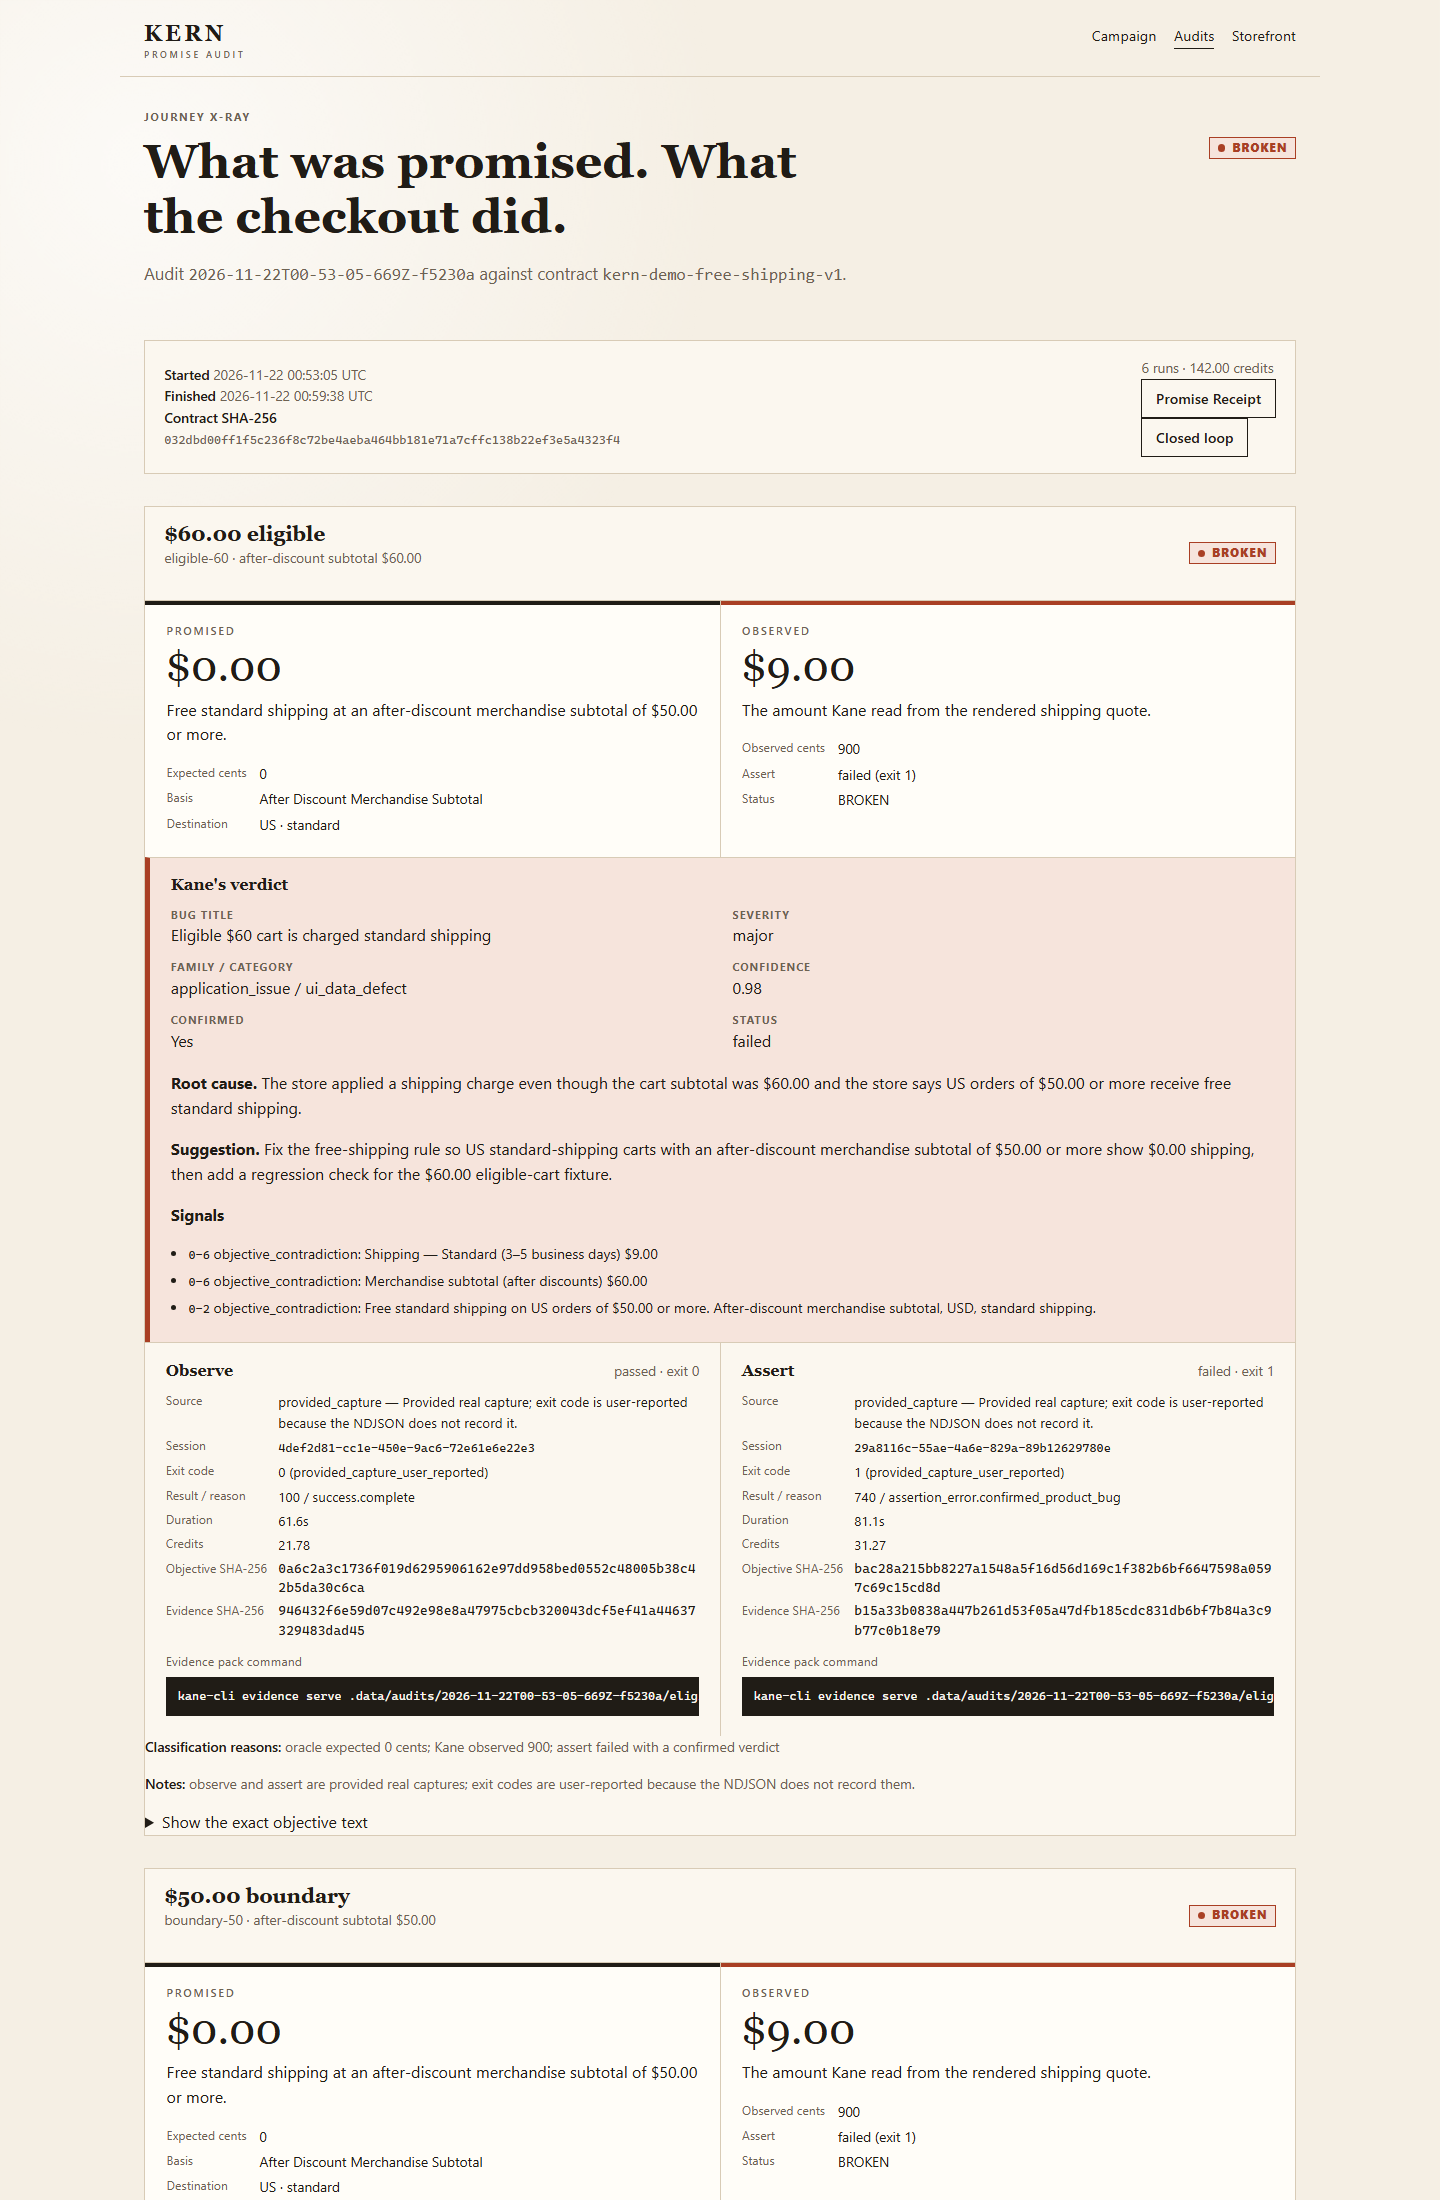
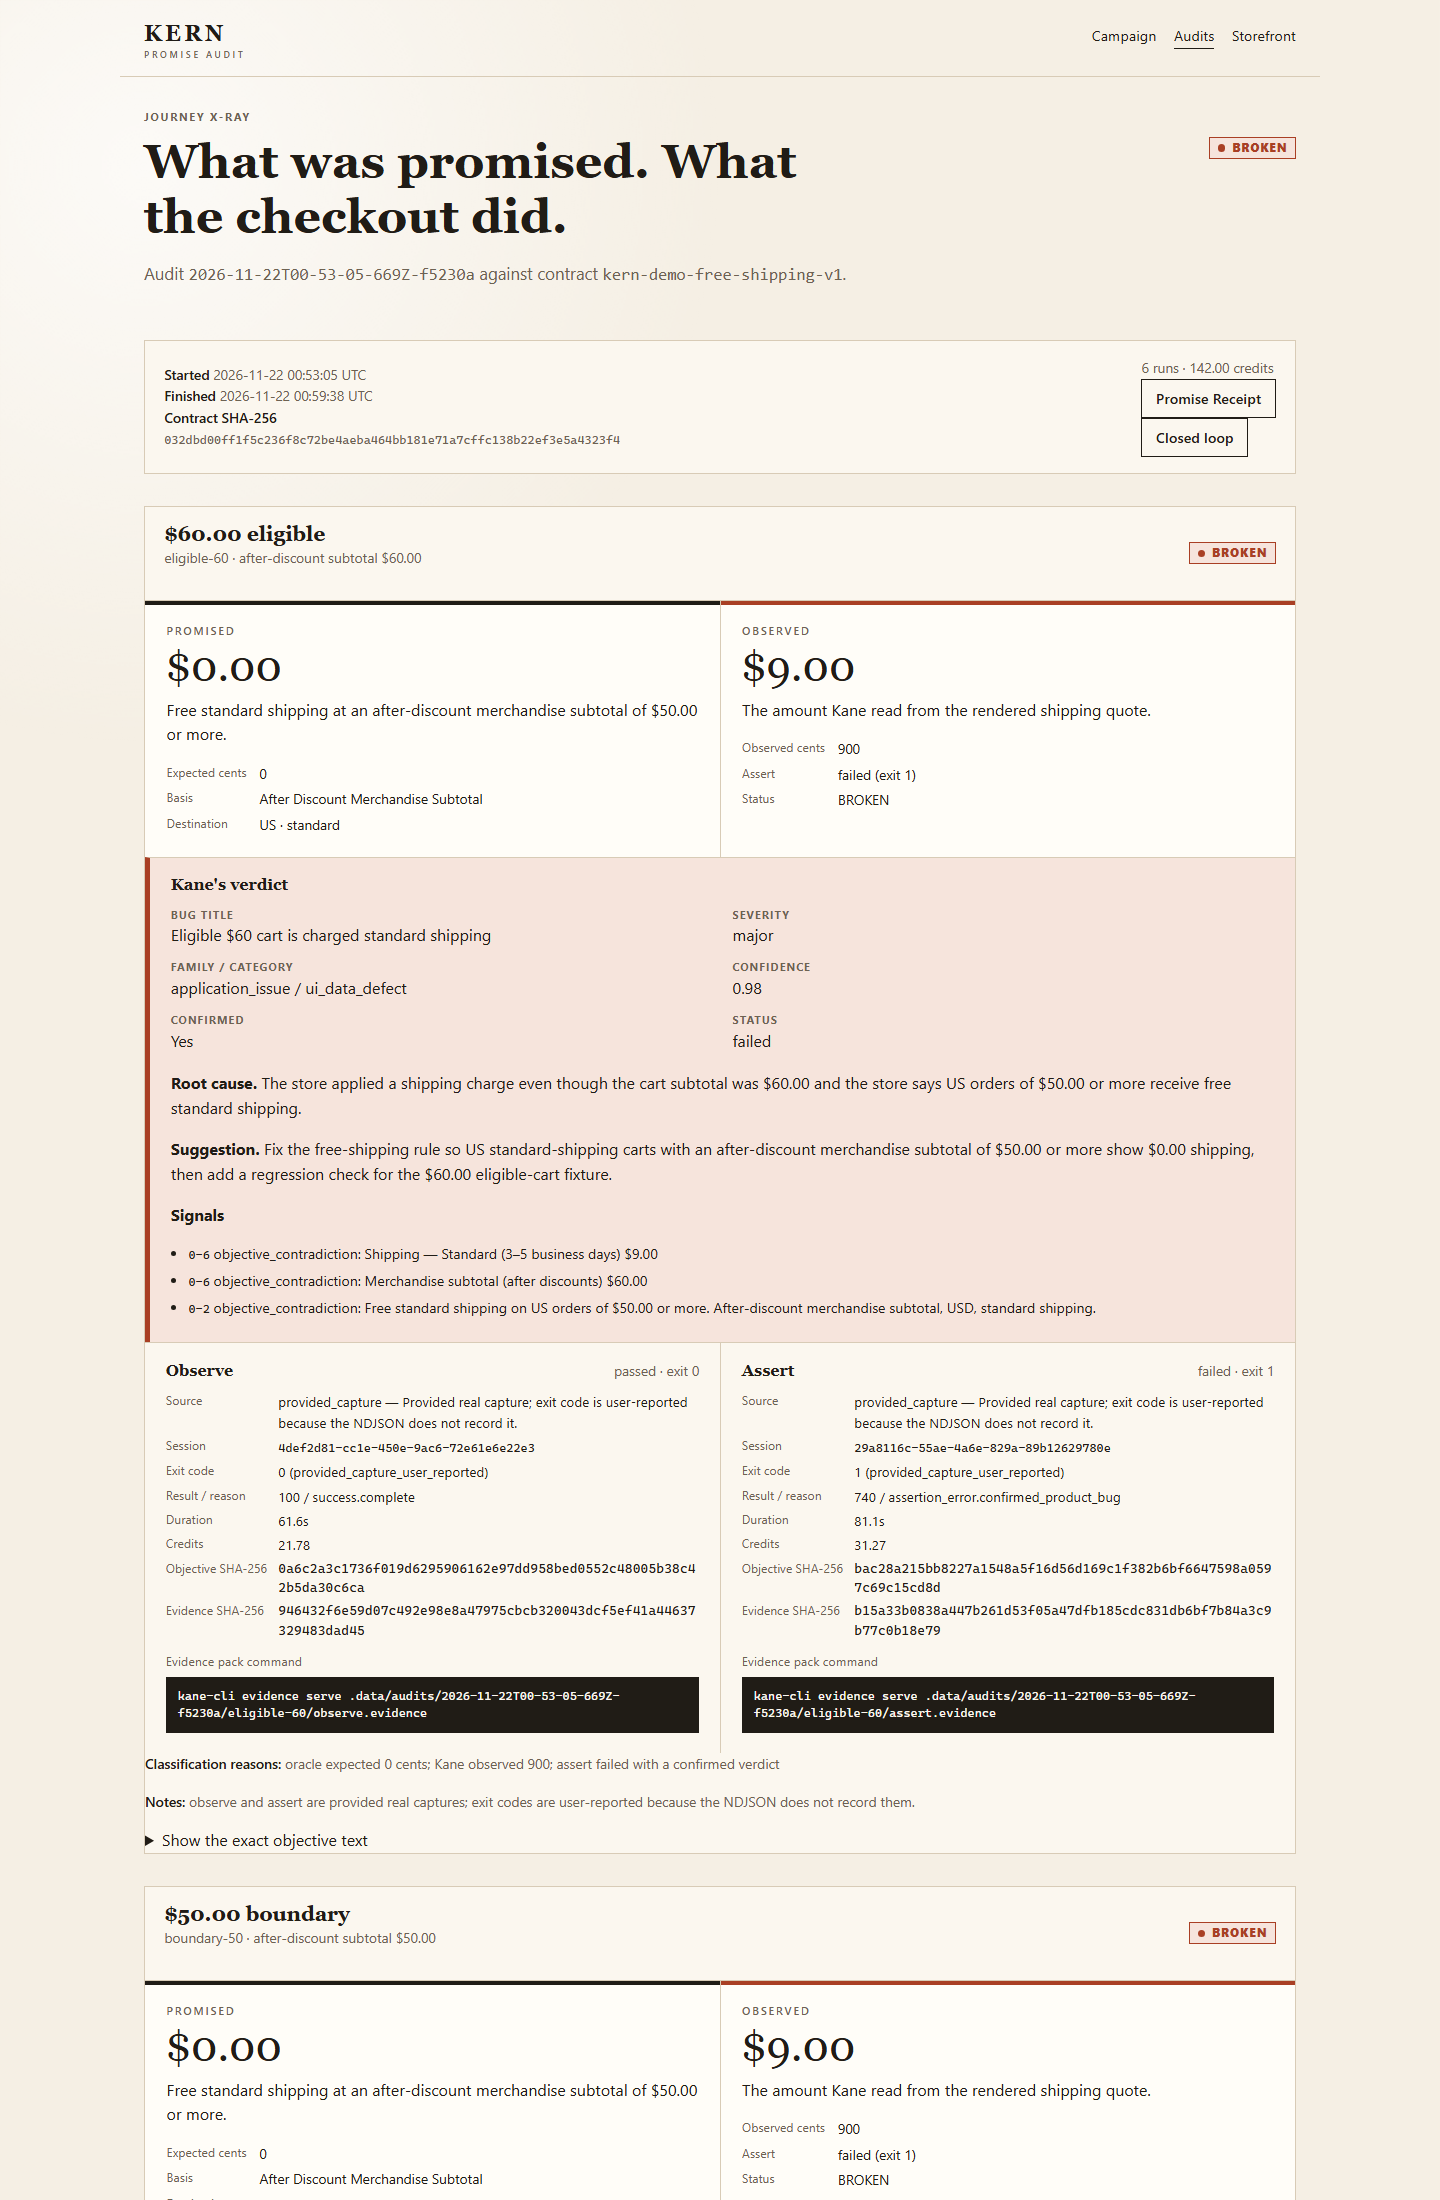
fix: wrap command and diff blocks and compact the hash table

Changed region(s): [[0.0938, 0.7727, 0.875, 1.0], [0.5, 0.8964, 0.7812, 1.0], [0.8125, 0.8655, 0.9062, 0.8964]]

diff --git a/src/app/render.ts b/src/app/render.ts
@@ -622,26 +622,29 @@ function hashComparisonTable(post: AuditSummary): string {
   if (!comparisons || comparisons.length === 0) {
     return `<p class="meta">No objective-hash comparison table was recorded in this audit.</p>`;
   }
+  const shortHash = (hash: string): string =>
+    `<code class="hash" title="${escapeHtml(hash)}">${escapeHtml(hash.slice(0, 12))}</code>`;
   const rows = comparisons
     .map(
       (comparison) => `<tr>
-  <td>${escapeHtml(comparison.scenarioId)}</td>
-  <td>${escapeHtml(comparison.kind)}</td>
-  <td><code class="hash">${escapeHtml(comparison.preRepairSha256)}</code></td>
-  <td><code class="hash">${escapeHtml(comparison.postRepairSha256)}</code></td>
-  <td>${comparison.match ? 'MATCH' : 'MISMATCH'}</td>
+  <td>${escapeHtml(comparison.scenarioId)}<br><span class="meta">${escapeHtml(
+    comparison.kind,
+  )} · ${comparison.match ? 'MATCH' : 'MISMATCH'}</span></td>
+  <td>${shortHash(comparison.preRepairSha256)}</td>
+  <td>${shortHash(comparison.postRepairSha256)}</td>
 </tr>`,
     )
     .join('\n');
   const matches = comparisons.filter((comparison) => comparison.match).length;
   return `<p><strong>${matches}/${comparisons.length}</strong> objective hashes match.</p>
 <div class="table-wrap">
-<table>
+<table class="hash-compare">
   <caption class="sr-only">Pre-repair and post-repair objective hashes</caption>
-  <thead><tr><th scope="col">Scenario</th><th scope="col">Run</th><th scope="col">Pre-repair SHA-256</th><th scope="col">Post-repair SHA-256</th><th scope="col">Comparison</th></tr></thead>
+  <thead><tr><th scope="col">Scenario / run</th><th scope="col">Pre-repair SHA-256</th><th scope="col">Post-repair SHA-256</th></tr></thead>
   <tbody>${rows}</tbody>
 </table>
-</div>`;
+</div>
+<p class="meta">First 12 hex characters shown; the complete 64-character values are in the audit artifact (<code>audit.json</code>). Hover a hash for its full value.</p>`;
 }
 
 export function renderRepair(input: {

diff --git a/src/app/styles.ts b/src/app/styles.ts
@@ -224,6 +224,11 @@ p { margin: 0 0 1rem; }
 .status--inconclusive { color: var(--warning); background: var(--warning-surface); }
 .status--infra-error { color: var(--slate); background: var(--slate-surface); }
 .table-wrap { overflow-x: auto; margin: 1rem 0 1.5rem; }
+.hash-compare { table-layout: fixed; }
+.hash-compare th { white-space: normal; vertical-align: bottom; }
+.hash-compare th, .hash-compare td { padding: .5rem .4rem; }
+.hash-compare td:first-child { overflow-wrap: anywhere; }
+.hash-compare .hash { font-size: .7rem; }
 table { width: 100%; border-collapse: collapse; }
 th, td {
   text-align: left;
@@ -361,8 +366,9 @@ td.num, th.num { text-align: right; font-variant-numeric: tabular-nums; }
   font-size: .76rem;
   line-height: 1.45;
   padding: .65rem .75rem;
-  overflow-x: auto;
-  white-space: nowrap;
+  white-space: pre-wrap;
+  overflow-wrap: anywhere;
+  word-break: break-word;
 }
 .diff {
   max-width: 100%;
@@ -373,8 +379,9 @@ td.num, th.num { text-align: right; font-variant-numeric: tabular-nums; }
   line-height: 1.5;
   margin: 0;
   padding: 1rem;
-  overflow-x: auto;
-  white-space: pre;
+  white-space: pre-wrap;
+  overflow-wrap: anywhere;
+  word-break: break-word;
 }
 .diff-line { display: block; }
 .diff-add { color: #a7d8b3; }

diff --git a/docs/screenshots/README.md b/docs/screenshots/README.md
@@ -45,12 +45,19 @@ node scripts/capture-mobile-screenshot.ts
 | File | Dimensions | Bytes | Page |
 |---|---|---:|---|
 | `01-campaign.png` | 1440×1600 | 244,960 | `/` |
-| `02-journey-x-ray.png` | 1440×2200 | 320,519 | `/audits/2026-11-22T00-53-05-669Z-f5230a` |
-| `03-closed-loop.png` | 1440×1800 | 336,959 | `/repair/2026-11-22T00-53-05-669Z-f5230a` |
+| `02-journey-x-ray.png` | 1440×2200 | 322,006 | `/audits/2026-11-22T00-53-05-669Z-f5230a` |
+| `03-closed-loop.png` | 1440×1800 | 312,061 | `/repair/2026-11-22T00-53-05-669Z-f5230a` |
 | `04-receipt.png` | 1440×2000 | 224,375 | `/audits/2026-11-23T12-35-29-692Z-48b993/receipt` |
 | `05-mobile.png` | 390×1400 | 140,427 | `/` |
 
 All five are under 400 KB. No image was upscaled or edited.
+
+`02-journey-x-ray.png` and `03-closed-loop.png` were recaptured after the
+presentation fix: command blocks and the diff now wrap, and the objective-hash
+table shows the first 12 hex characters with the full value in a `title`
+attribute and the complete hashes in `audit.json`. `04-receipt.png` was not
+recaptured because the receipt has no `kane-cli evidence serve` command block;
+its evidence hashes already wrap inside the table.
 
 These shots show the recording machine's **live** `.data` records, so the
 recorded-audit banner is absent. A public clone has no `.data` and reads
